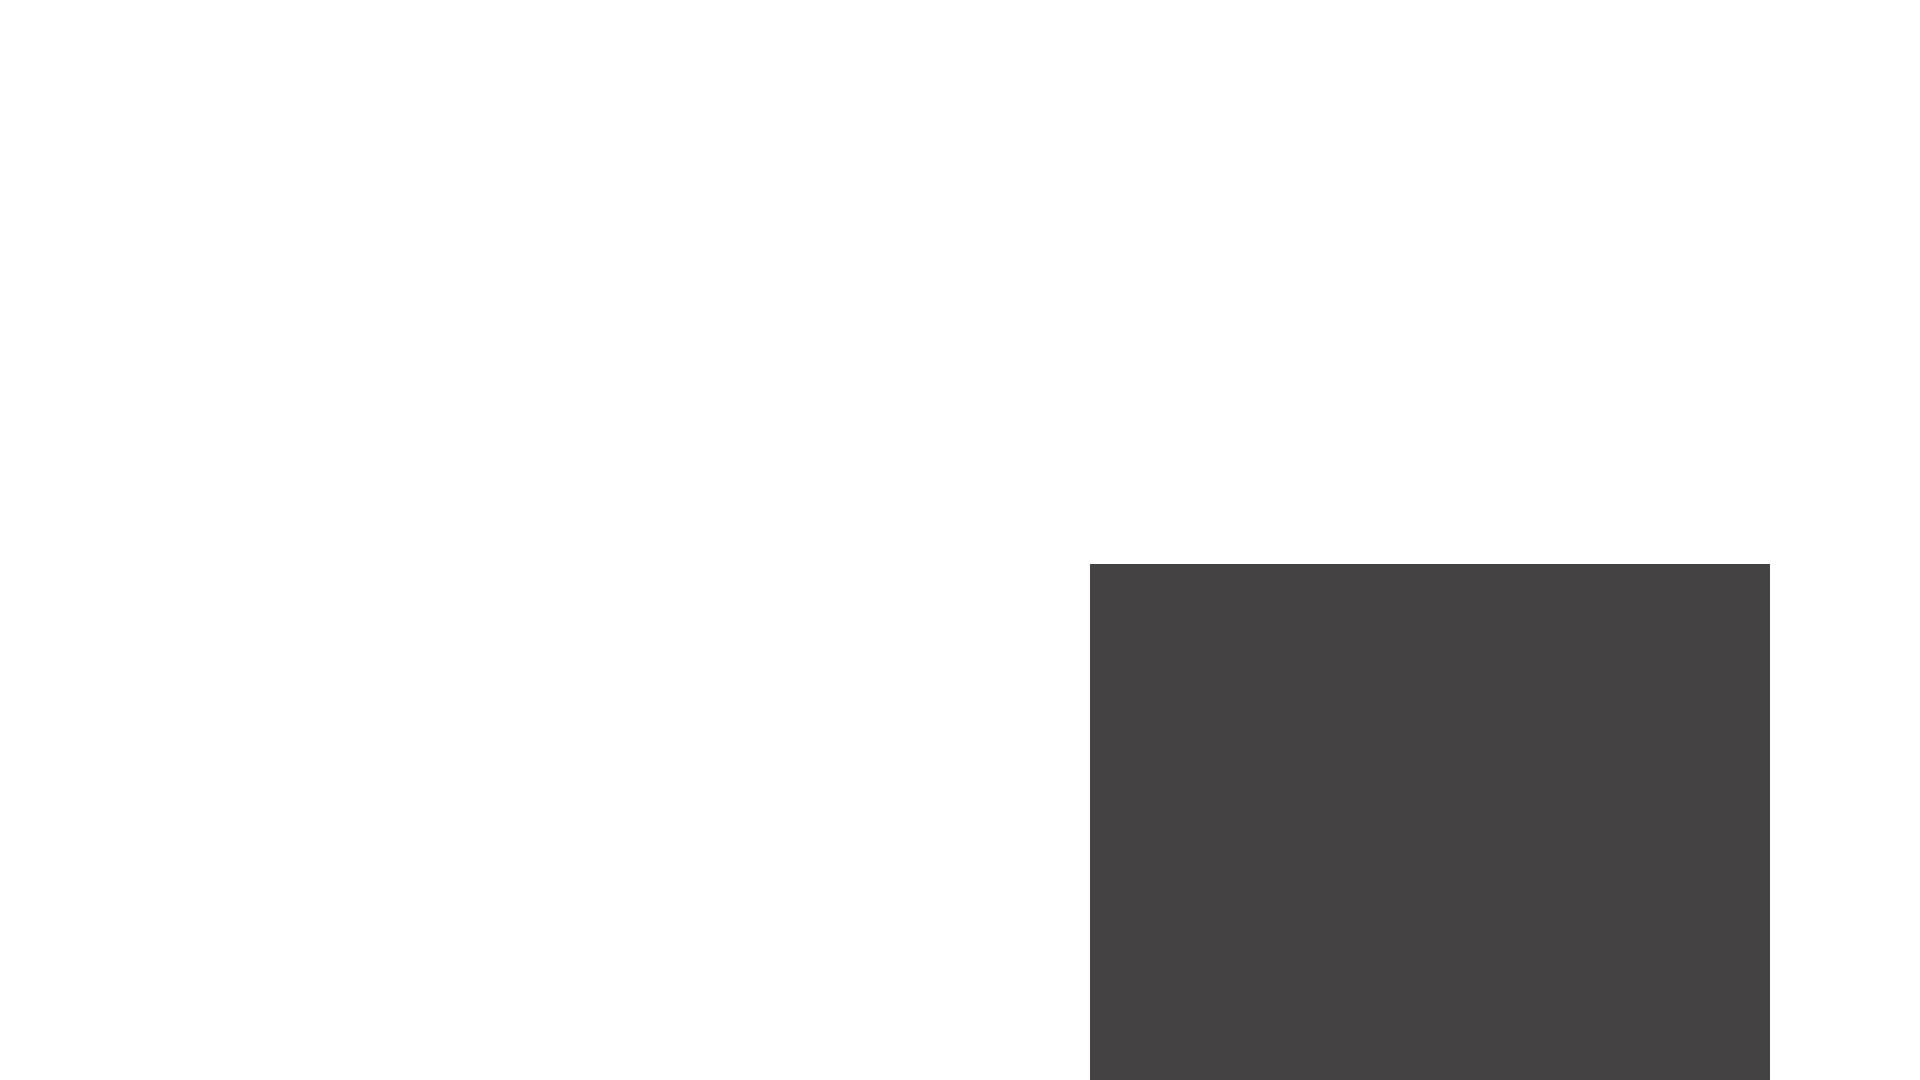
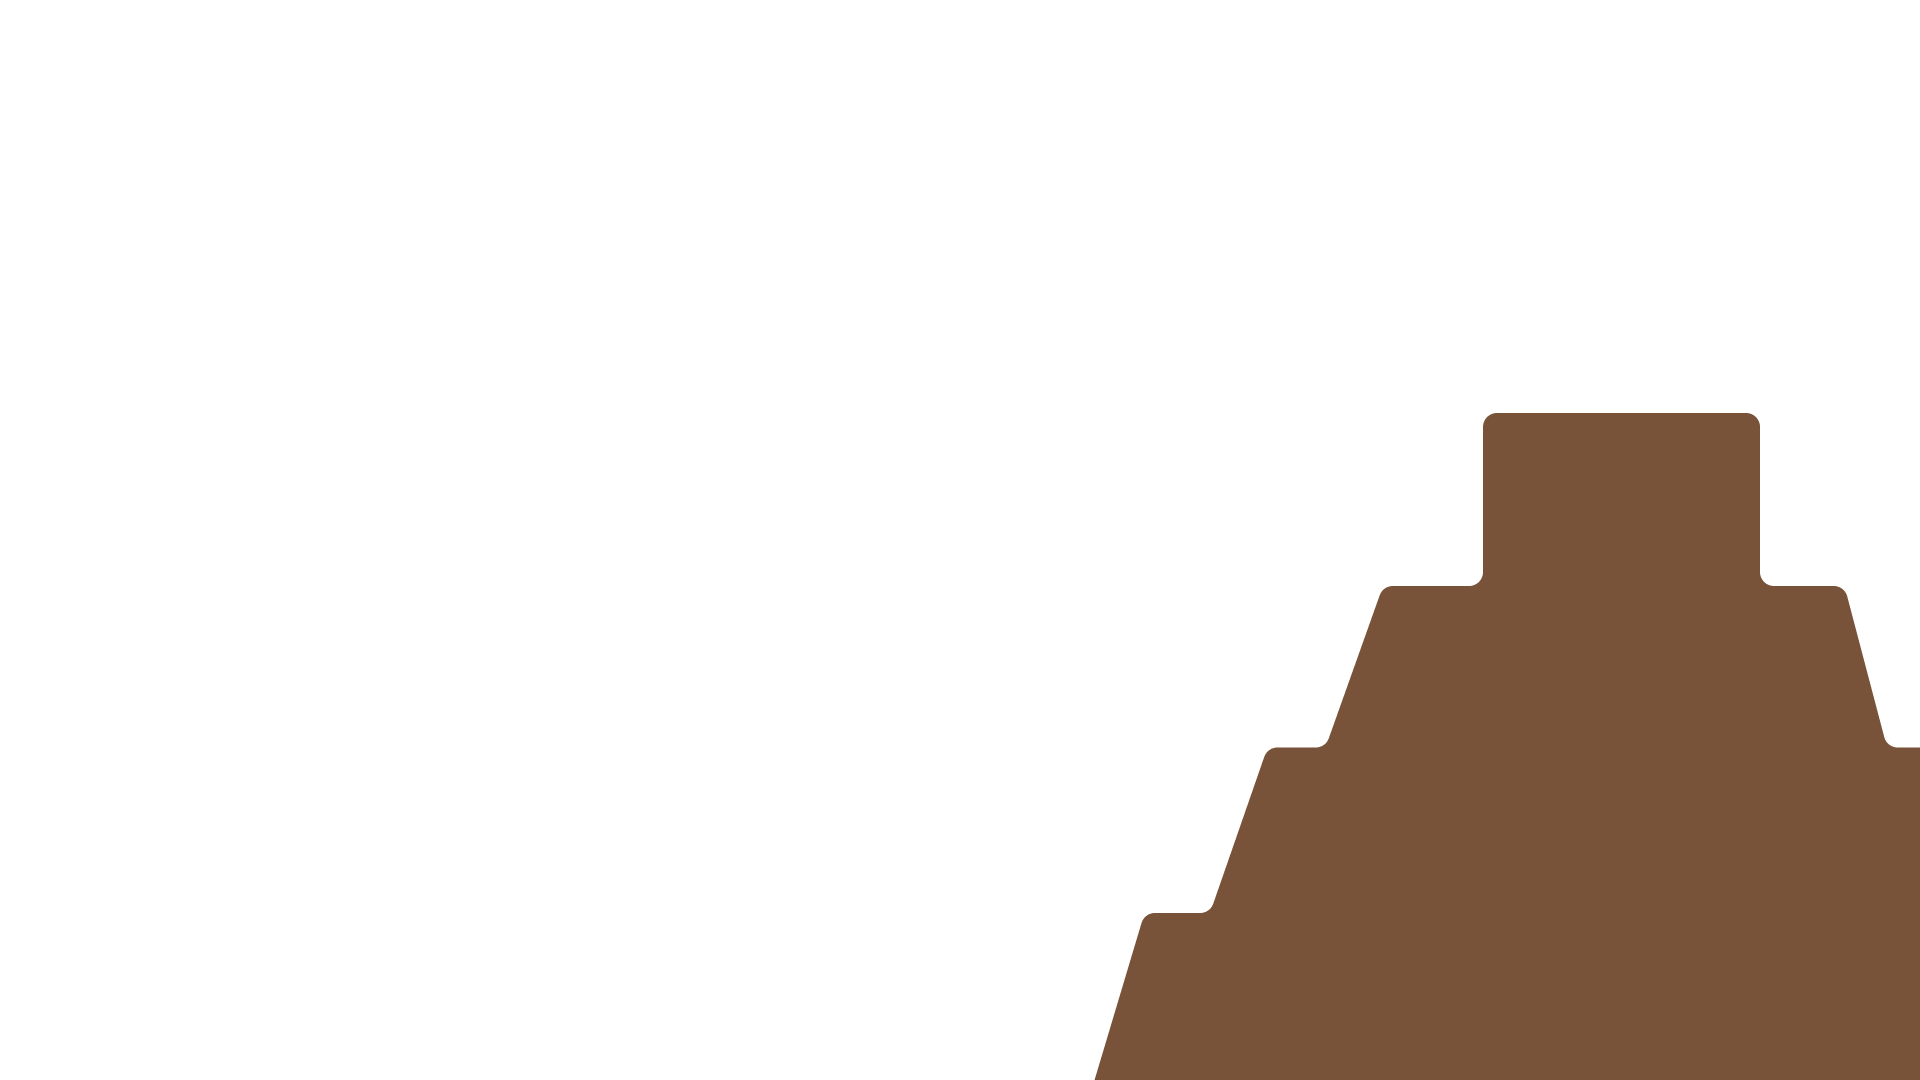
Culture paralax

Changed region(s): [[0.5625, 0.3667, 1.0, 1.0]]

diff --git a/pages/index.vue b/pages/index.vue
@@ -1,9 +1,78 @@
 <template>
   <main class="home-container">
     <HomeHero />
-    <hr />
-    <p>Section: Comment ca marche</p>
-    <hr />
     <HomeCulturesSection />
+    <div>
+      aaaaaaaaaaaaaaaaaaaaaaaaaaaaaaaaaaaaaaaaaaaaaaaaaaaaaaaaaaaaaaaaaaaaaaaaaa
+      aaaaaaaaaaaaaaaaaaaaaaaaaaaaaaaaaaaaaaaaaaaaaaaaaaaaaaaaaaaaaaaaaaaaaaaaaa
+      aaaaaaaaaaaaaaaaaaaaaaaaaaaaaaaaaaaaaaaaaaaaaaaaaaaaaaaaaaaaaaaaaaaaaaaaaa
+      aaaaaaaaaaaaaaaaaaaaaaaaaaaaaaaaaaaaaaaaaaaaaaaaaaaaaaaaaaaaaaaaaaaaaaaaaa
+      aaaaaaaaaaaaaaaaaaaaaaaaaaaaaaaaaaaaaaaaaaaaaaaaaaaaaaaaaaaaaaaaaaaaaaaaaa
+      aaaaaaaaaaaaaaaaaaaaaaaaaaaaaaaaaaaaaaaaaaaaaaaaaaaaaaaaaaaaaaaaaaaaaaaaaa
+      aaaaaaaaaaaaaaaaaaaaaaaaaaaaaaaaaaaaaaaaaaaaaaaaaaaaaaaaaaaaaaaaaaaaaaaaaa
+      aaaaaaaaaaaaaaaaaaaaaaaaaaaaaaaaaaaaaaaaaaaaaaaaaaaaaaaaaaaaaaaaaaaaaaaaaa
+      aaaaaaaaaaaaaaaaaaaaaaaaaaaaaaaaaaaaaaaaaaaaaaaaaaaaaaaaaaaaaaaaaaaaaaaaaa
+      aaaaaaaaaaaaaaaaaaaaaaaaaaaaaaaaaaaaaaaaaaaaaaaaaaaaaaaaaaaaaaaaaaaaaaaaaa
+      aaaaaaaaaaaaaaaaaaaaaaaaaaaaaaaaaaaaaaaaaaaaaaaaaaaaaaaaaaaaaaaaaaaaaaaaaa
+      aaaaaaaaaaaaaaaaaaaaaaaaaaaaaaaaaaaaaaaaaaaaaaaaaaaaaaaaaaaaaaaaaaaaaaaaaa
+      aaaaaaaaaaaaaaaaaaaaaaaaaaaaaaaaaaaaaaaaaaaaaaaaaaaaaaaaaaaaaaaaaaaaaaaaaa
+      aaaaaaaaaaaaaaaaaaaaaaaaaaaaaaaaaaaaaaaaaaaaaaaaaaaaaaaaaaaaaaaaaaaaaaaaaa
+      aaaaaaaaaaaaaaaaaaaaaaaaaaaaaaaaaaaaaaaaaaaaaaaaaaaaaaaaaaaaaaaaaaaaaaaaaa
+      aaaaaaaaaaaaaaaaaaaaaaaaaaaaaaaaaaaaaaaaaaaaaaaaaaaaaaaaaaaaaaaaaaaaaaaaaa
+      aaaaaaaaaaaaaaaaaaaaaaaaaaaaaaaaaaaaaaaaaaaaaaaaaaaaaaaaaaaaaaaaaaaaaaaaaa
+      aaaaaaaaaaaaaaaaaaaaaaaaaaaaaaaaaaaaaaaaaaaaaaaaaaaaaaaaaaaaaaaaaaaaaaaaaa
+      aaaaaaaaaaaaaaaaaaaaaaaaaaaaaaaaaaaaaaaaaaaaaaaaaaaaaaaaaaaaaaaaaaaaaaaaaa
+      aaaaaaaaaaaaaaaaaaaaaaaaaaaaaaaaaaaaaaaaaaaaaaaaaaaaaaaaaaaaaaaaaaaaaaaaaa
+      aaaaaaaaaaaaaaaaaaaaaaaaaaaaaaaaaaaaaaaaaaaaaaaaaaaaaaaaaaaaaaaaaaaaaaaaaa
+      aaaaaaaaaaaaaaaaaaaaaaaaaaaaaaaaaaaaaaaaaaaaaaaaaaaaaaaaaaaaaaaaaaaaaaaaaa
+      aaaaaaaaaaaaaaaaaaaaaaaaaaaaaaaaaaaaaaaaaaaaaaaaaaaaaaaaaaaaaaaaaaaaaaaaaa
+      aaaaaaaaaaaaaaaaaaaaaaaaaaaaaaaaaaaaaaaaaaaaaaaaaaaaaaaaaaaaaaaaaaaaaaaaaa
+      aaaaaaaaaaaaaaaaaaaaaaaaaaaaaaaaaaaaaaaaaaaaaaaaaaaaaaaaaaaaaaaaaaaaaaaaaa
+      aaaaaaaaaaaaaaaaaaaaaaaaaaaaaaaaaaaaaaaaaaaaaaaaaaaaaaaaaaaaaaaaaaaaaaaaaa
+      aaaaaaaaaaaaaaaaaaaaaaaaaaaaaaaaaaaaaaaaaaaaaaaaaaaaaaaaaaaaaaaaaaaaaaaaaa
+      aaaaaaaaaaaaaaaaaaaaaaaaaaaaaaaaaaaaaaaaaaaaaaaaaaaaaaaaaaaaaaaaaaaaaaaaaa
+      aaaaaaaaaaaaaaaaaaaaaaaaaaaaaaaaaaaaaaaaaaaaaaaaaaaaaaaaaaaaaaaaaaaaaaaaaa
+      aaaaaaaaaaaaaaaaaaaaaaaaaaaaaaaaaaaaaaaaaaaaaaaaaaaaaaaaaaaaaaaaaaaaaaaaaa
+      aaaaaaaaaaaaaaaaaaaaaaaaaaaaaaaaaaaaaaaaaaaaaaaaaaaaaaaaaaaaaaaaaaaaaaaaaa
+      aaaaaaaaaaaaaaaaaaaaaaaaaaaaaaaaaaaaaaaaaaaaaaaaaaaaaaaaaaaaaaaaaaaaaaaaaa
+      aaaaaaaaaaaaaaaaaaaaaaaaaaaaaaaaaaaaaaaaaaaaaaaaaaaaaaaaaaaaaaaaaaaaaaaaaa
+      aaaaaaaaaaaaaaaaaaaaaaaaaaaaaaaaaaaaaaaaaaaaaaaaaaaaaaaaaaaaaaaaaaaaaaaaaa
+      aaaaaaaaaaaaaaaaaaaaaaaaaaaaaaaaaaaaaaaaaaaaaaaaaaaaaaaaaaaaaaaaaaaaaaaaaa
+      aaaaaaaaaaaaaaaaaaaaaaaaaaaaaaaaaaaaaaaaaaaaaaaaaaaaaaaaaaaaaaaaaaaaaaaaaa
+      aaaaaaaaaaaaaaaaaaaaaaaaaaaaaaaaaaaaaaaaaaaaaaaaaaaaaaaaaaaaaaaaaaaaaaaaaa
+      aaaaaaaaaaaaaaaaaaaaaaaaaaaaaaaaaaaaaaaaaaaaaaaaaaaaaaaaaaaaaaaaaaaaaaaaaa
+      aaaaaaaaaaaaaaaaaaaaaaaaaaaaaaaaaaaaaaaaaaaaaaaaaaaaaaaaaaaaaaaaaaaaaaaaaa
+      aaaaaaaaaaaaaaaaaaaaaaaaaaaaaaaaaaaaaaaaaaaaaaaaaaaaaaaaaaaaaaaaaaaaaaaaaa
+      aaaaaaaaaaaaaaaaaaaaaaaaaaaaaaaaaaaaaaaaaaaaaaaaaaaaaaaaaaaaaaaaaaaaaaaaaa
+      aaaaaaaaaaaaaaaaaaaaaaaaaaaaaaaaaaaaaaaaaaaaaaaaaaaaaaaaaaaaaaaaaaaaaaaaaa
+      aaaaaaaaaaaaaaaaaaaaaaaaaaaaaaaaaaaaaaaaaaaaaaaaaaaaaaaaaaaaaaaaaaaaaaaaaa
+      aaaaaaaaaaaaaaaaaaaaaaaaaaaaaaaaaaaaaaaaaaaaaaaaaaaaaaaaaaaaaaaaaaaaaaaaaa
+      aaaaaaaaaaaaaaaaaaaaaaaaaaaaaaaaaaaaaaaaaaaaaaaaaaaaaaaaaaaaaaaaaaaaaaaaaa
+      aaaaaaaaaaaaaaaaaaaaaaaaaaaaaaaaaaaaaaaaaaaaaaaaaaaaaaaaaaaaaaaaaaaaaaaaaa
+      aaaaaaaaaaaaaaaaaaaaaaaaaaaaaaaaaaaaaaaaaaaaaaaaaaaaaaaaaaaaaaaaaaaaaaaaaa
+      aaaaaaaaaaaaaaaaaaaaaaaaaaaaaaaaaaaaaaaaaaaaaaaaaaaaaaaaaaaaaaaaaaaaaaaaaa
+      aaaaaaaaaaaaaaaaaaaaaaaaaaaaaaaaaaaaaaaaaaaaaaaaaaaaaaaaaaaaaaaaaaaaaaaaaa
+      aaaaaaaaaaaaaaaaaaaaaaaaaaaaaaaaaaaaaaaaaaaaaaaaaaaaaaaaaaaaaaaaaaaaaaaaaa
+      aaaaaaaaaaaaaaaaaaaaaaaaaaaaaaaaaaaaaaaaaaaaaaaaaaaaaaaaaaaaaaaaaaaaaaaaaa
+      aaaaaaaaaaaaaaaaaaaaaaaaaaaaaaaaaaaaaaaaaaaaaaaaaaaaaaaaaaaaaaaaaaaaaaaaaa
+      aaaaaaaaaaaaaaaaaaaaaaaaaaaaaaaaaaaaaaaaaaaaaaaaaaaaaaaaaaaaaaaaaaaaaaaaaa
+      aaaaaaaaaaaaaaaaaaaaaaaaaaaaaaaaaaaaaaaaaaaaaaaaaaaaaaaaaaaaaaaaaaaaaaaaaa
+      aaaaaaaaaaaaaaaaaaaaaaaaaaaaaaaaaaaaaaaaaaaaaaaaaaaaaaaaaaaaaaaaaaaaaaaaaa
+      aaaaaaaaaaaaaaaaaaaaaaaaaaaaaaaaaaaaaaaaaaaaaaaaaaaaaaaaaaaaaaaaaaaaaaaaaa
+      aaaaaaaaaaaaaaaaaaaaaaaaaaaaaaaaaaaaaaaaaaaaaaaaaaaaaaaaaaaaaaaaaaaaaaaaaa
+      aaaaaaaaaaaaaaaaaaaaaaaaaaaaaaaaaaaaaaaaaaaaaaaaaaaaaaaaaaaaaaaaaaaaaaaaaa
+      aaaaaaaaaaaaaaaaaaaaaaaaaaaaaaaaaaaaaaaaaaaaaaaaaaaaaaaaaaaaaaaaaaaaaaaaaa
+      aaaaaaaaaaaaaaaaaaaaaaaaaaaaaaaaaaaaaaaaaaaaaaaaaaaaaaaaaaaaaaaaaaaaaaaaaa
+      aaaaaaaaaaaaaaaaaaaaaaaaaaaaaaaaaaaaaaaaaaaaaaaaaaaaaaaaaaaaaaaaaaaaaaaaaa
+      aaaaaaaaaaaaaaaaaaaaaaaaaaaaaaaaaaaaaaaaaaaaaaaaaaaaaaaaaaaaaaaaaaaaaaaaaa
+      aaaaaaaaaaaaaaaaaaaaaaaaaaaaaaaaaaaaaaaaaaaaaaaaaaaaaaaaaaaaaaaaaaaaaaaaaa
+      aaaaaaaaaaaaaaaaaaaaaaaaaaaaaaaaaaaaaaaaaaaaaaaaaaaaaaaaaaaaaaaaaaaaaaaaaa
+      aaaaaaaaaaaaaaaaaaaaaaaaaaaaaaaaaaaaaaaaaaaaaaaaaaaaaaaaaaaaaaaaaaaaaaaaaa
+      aaaaaaaaaaaaaaaaaaaaaaaaaaaaaaaaaaaaaaaaaaaaaaaaaaaaaaaaaaaaaaaaaaaaaaaaaa
+      aaaaaaaaaaaaaaaaaaaaaaaaaaaaaaaaaaaaaaaaaaaaaaaaaaaaaaaaaaaaaaaaaaaaaaaaaa
+      aaaaaaaaaaaaaaaaaaaaaaaaaaaaaaaaaaaaaaaaaaaaaaaaaaaaaaaaaaaaaaaaaaaaaaaaaa
+      aaaaaaaaaaaaaaaaaaaaaaaaaaaaaaaaaaaaaaaaaaaaaaaaaaaaaaaaaaaaaaaaaaaaaaaaaa
+      aaaaaaaaaaaaaaaaaaaaaaaaaaaaaaaaaaaaaaaaaaaaaaaaaaaaaaaaaaaaaaaaaaaaaaaaaa
+    </div>
   </main>
 </template>

diff --git a/components/Home/CulturesSection.vue b/components/Home/CulturesSection.vue
@@ -7,7 +7,7 @@
       <section class="experience-section" v-for="exp in experiences" :key="exp.id">
         <div class="layers">
           <NuxtImg
-            v-for="i in layers"
+            v-for="i in exp.layers"
             :key="i"
             :src="`/images/experience/${exp.id}/layer_${i}.png`"
             format="avif"
@@ -38,12 +38,12 @@
     gsap.registerPlugin(ScrollTrigger);
   }
 
-  const layers = 5;
   const experiences = experiencesDatas.experiences;
 
   onMounted(() => {
     const door = document.querySelector('.clipping-door');
     const title = document.querySelector('.section-title');
+    const layersContainer = document.querySelector('.layers');
 
     gsap.timeline({
       scrollTrigger: {
@@ -54,7 +54,6 @@
         pin: true,
         anticipatePin: 1,
         invalidateOnRefresh: true,
-        markers: true
       }
     })
     .to(door, {
@@ -63,9 +62,19 @@
       ease: 'power2.inOut',
       transformOrigin: 'center center'
     })
+    .to(layersContainer, {
+      scale: 1.05,
+      ease: 'power2.inOut',
+      y: 0,
+      transformOrigin: 'center center'
+    })
     .to(title, {
       opacity: 0,
       ease: 'power2.inOut'
+    })
+    .to(door, {
+      opacity: 0,
+      ease: 'power2.inOut',
     });
     const container = document.querySelector('.cultures-container');
     const layers = container?.querySelectorAll('.layer');

diff --git a/components/Home/Hero.vue b/components/Home/Hero.vue
@@ -2,7 +2,7 @@
   <section class="hero is-primary is-halfheight">
     <div class="hero-body">
       <div class="content">
-        <p class="title is-1">Mundara ⚠ WIP placeholder hero ⚠</p>
+        <p class="title is-1">Mundara</p>
         <p class="subtitle">Experience the cultures.</p>
       </div>
     </div>

diff --git a/assets/scss/components/cultures.scss b/assets/scss/components/cultures.scss
@@ -42,6 +42,9 @@
         position: absolute;
         inset: 0;
         overflow: hidden;
+        scale: 0.34;
+        transform: translateY(35.5%);
+        transform-origin: center center;
 
         .layer {
           display: block;
